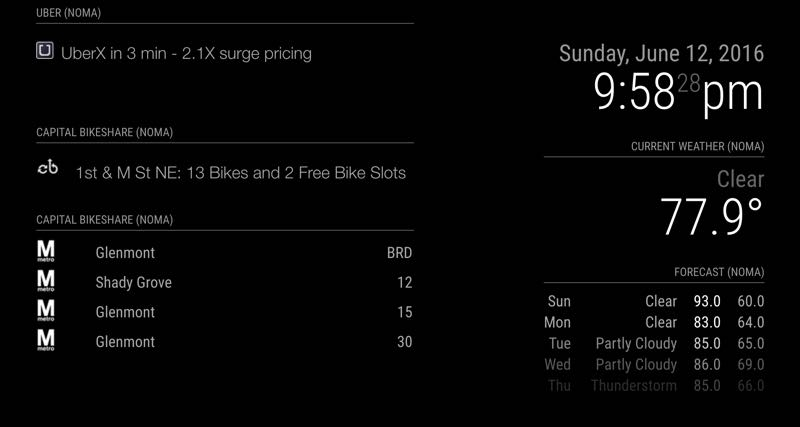
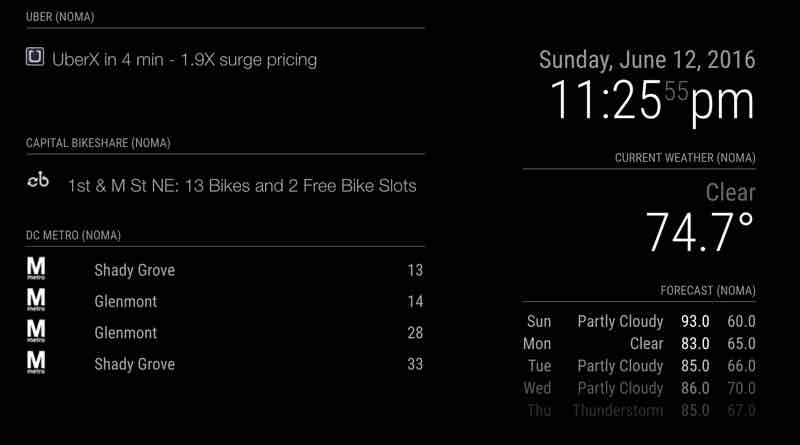
typo

diff --git a/README.md b/README.md
@@ -48,7 +48,7 @@ configs will then look something like this:
 	    {
 		   	module: 'derickson/wmata',
 		   	position: 'top_left',
-		   	header: "Capital Bikeshare (DC)",
+		   	header: "DC Metro",
 		   	config: {
 		   		stationCode: "B35",
 		   		apiKey: "XXXXXXX"
